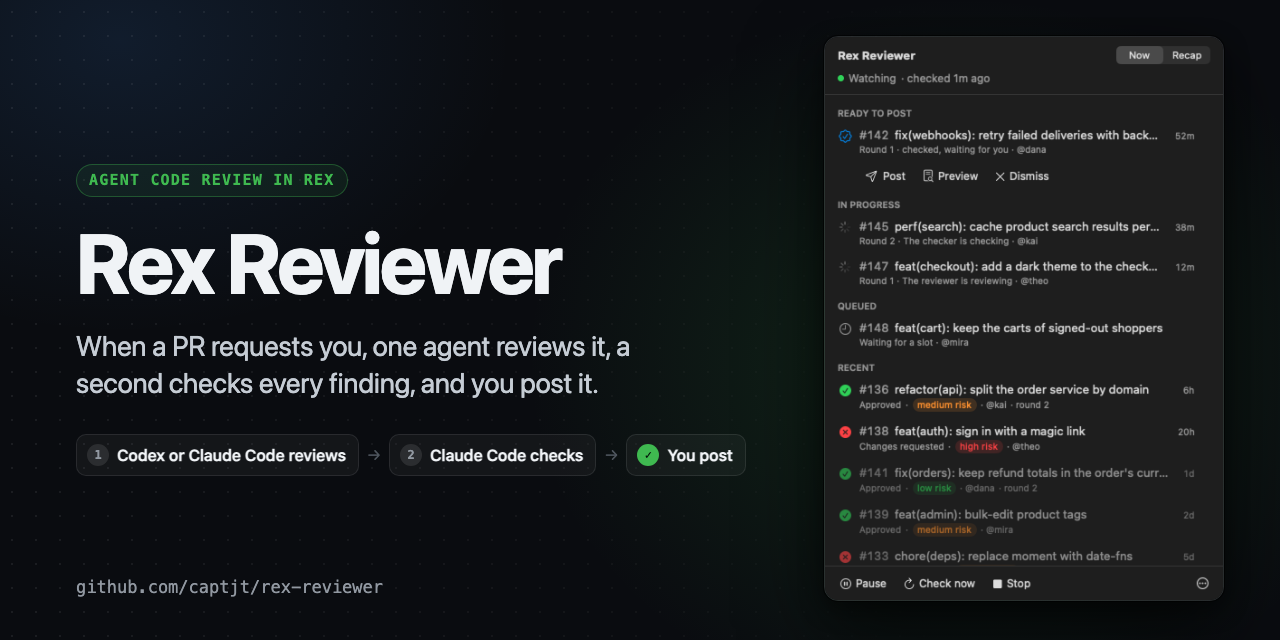
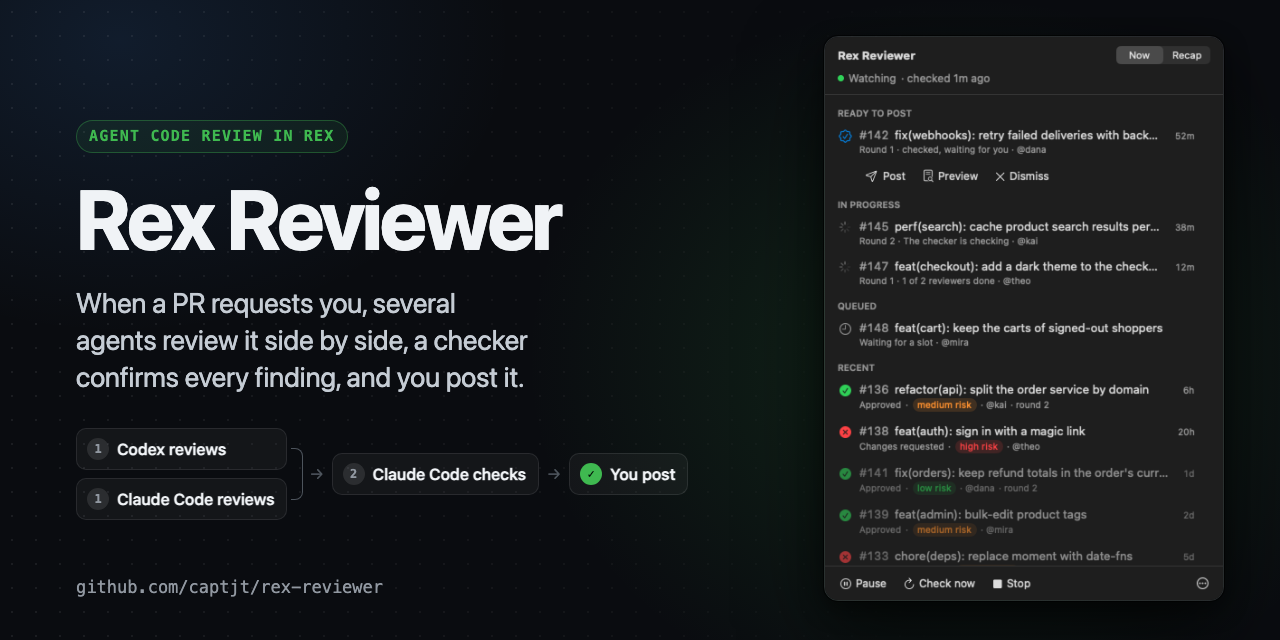
The social preview shows several reviewers, not one agent and one checker
The card said one agent reviews and a second checks. Since 0.4, several
reviewers can review side by side, so the card now says that, and its flow
shows Codex and Claude Code joining into the checker. The demo ledger gives
#147 two reviewers with one done, so the Now tab beside it shows "1 of 2
reviewers done". The README's alt text and the example config's header say
the same.

diff --git a/docs/images/social-preview.html b/docs/images/social-preview.html
@@ -50,7 +50,7 @@
   }
   .tagline {
     font-size: 28px; line-height: 1.32; color: #c5ccd4; letter-spacing: -0.01em;
-    max-width: 610px;
+    max-width: 610px; text-wrap: balance;
   }
   .flow { display: flex; align-items: center; gap: 8px; margin-top: 6px; }
   .step {
@@ -67,6 +67,12 @@
   }
   .step.you b { background: var(--green); color: #04150a; }
   .arrow { color: #4d545c; font-size: 16px; }
+  /* The reviewers, stacked, and a bracket joining them into the checker. */
+  .reviewers { display: flex; flex-direction: column; gap: 8px; }
+  .join {
+    align-self: stretch; width: 12px; margin: 20px -2px 20px -4px;
+    border: 1.5px solid #4d545c; border-left: 0; border-radius: 0 8px 8px 0;
+  }
   .url {
     position: absolute; left: 76px; bottom: 44px;
     font: 500 17px/1 ui-monospace, "SF Mono", Menlo, monospace; color: var(--muted);
@@ -87,9 +93,13 @@
   <div class="copy">
     <span class="eyebrow">Agent code review in Rex</span>
     <h1>Rex Reviewer</h1>
-    <p class="tagline">When a PR requests you, one agent reviews it, a second checks every finding, and you post it.</p>
+    <p class="tagline">When a PR requests you, several agents review it side by side, a checker confirms every finding, and you post it.</p>
     <div class="flow">
-      <span class="step"><b>1</b>Codex or Claude Code reviews</span>
+      <div class="reviewers">
+        <span class="step"><b>1</b>Codex reviews</span>
+        <span class="step"><b>1</b>Claude Code reviews</span>
+      </div>
+      <span class="join"></span>
       <span class="arrow">→</span>
       <span class="step"><b>2</b>Claude Code checks</span>
       <span class="arrow">→</span>

diff --git a/README.md b/README.md
@@ -1,6 +1,6 @@
 # rex-reviewer
 
-<img src="docs/images/social-preview.png" alt="Rex Reviewer: when a PR requests you, one agent reviews it, a second checks every finding, and you post it. Beside it, the menu bar app's Now tab.">
+<img src="docs/images/social-preview.png" alt="Rex Reviewer: when a PR requests you, several agents review it side by side, a checker confirms every finding, and you post it. Codex and Claude Code review, Claude Code checks, you post. Beside it, the menu bar app's Now tab.">
 
 Agent code review for the GitHub PRs that request you, run in
 [Rex](https://www.superlogical.com/rex). When someone asks you to review a
